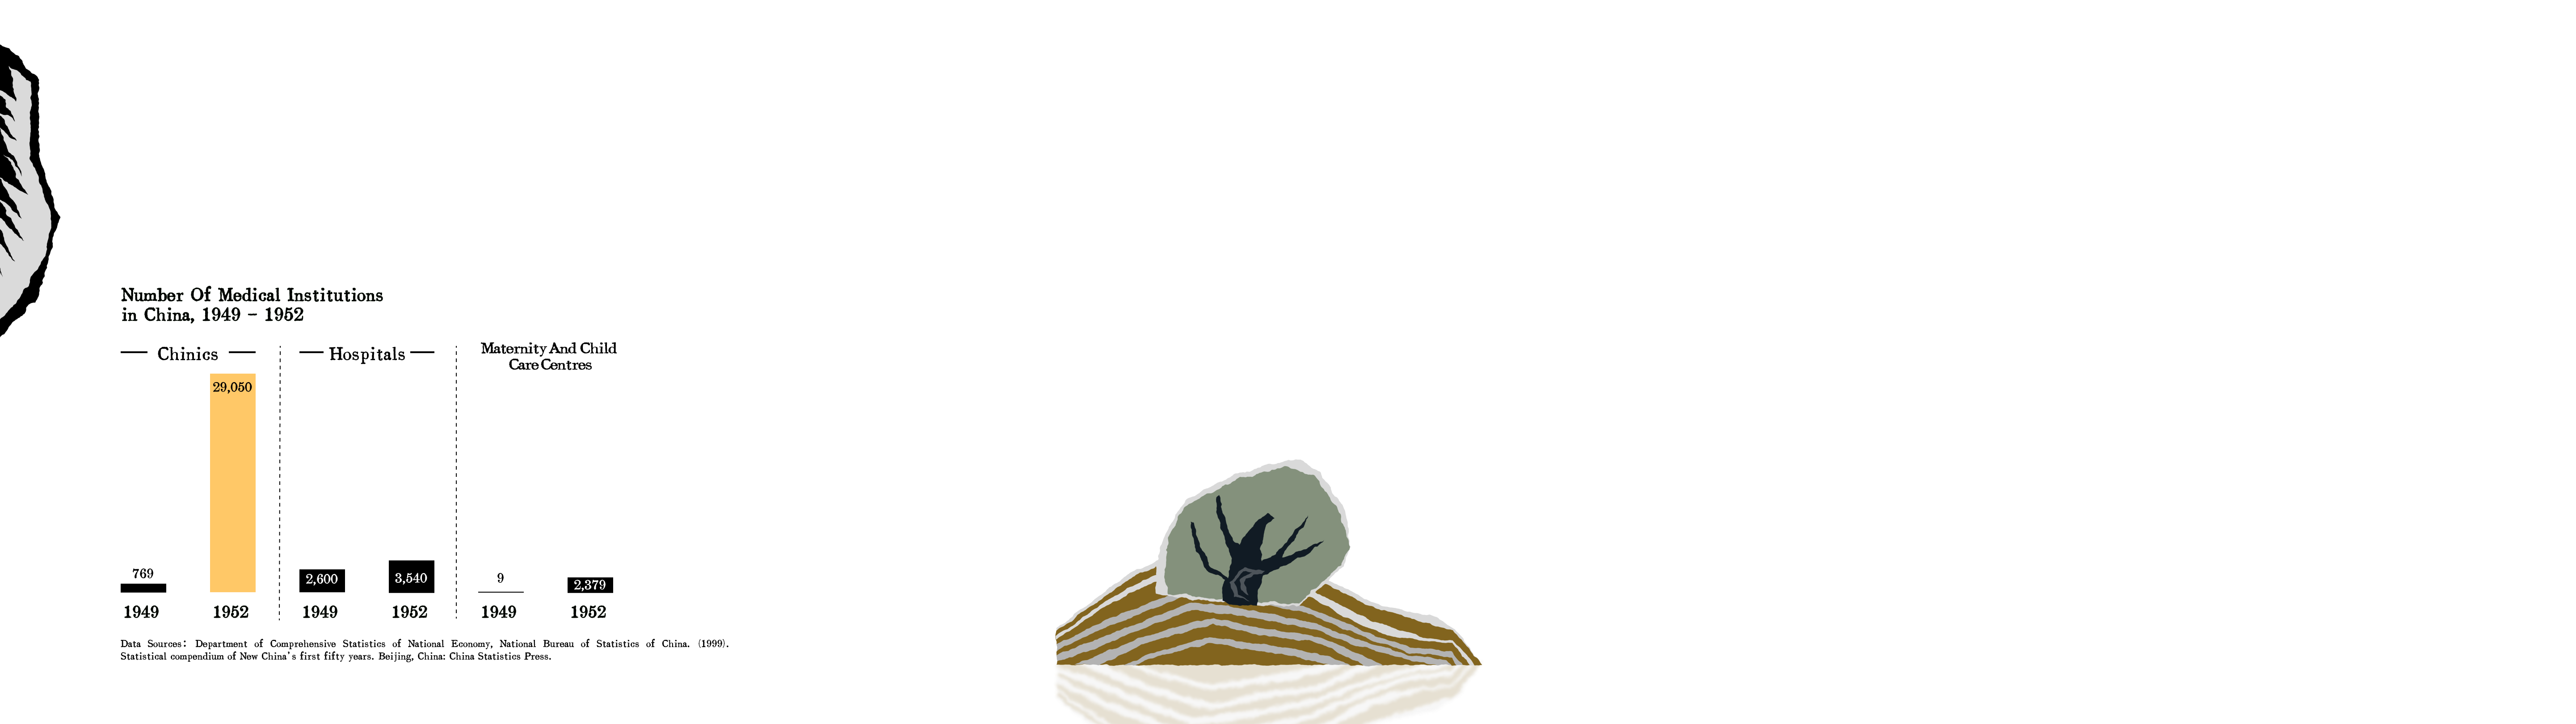
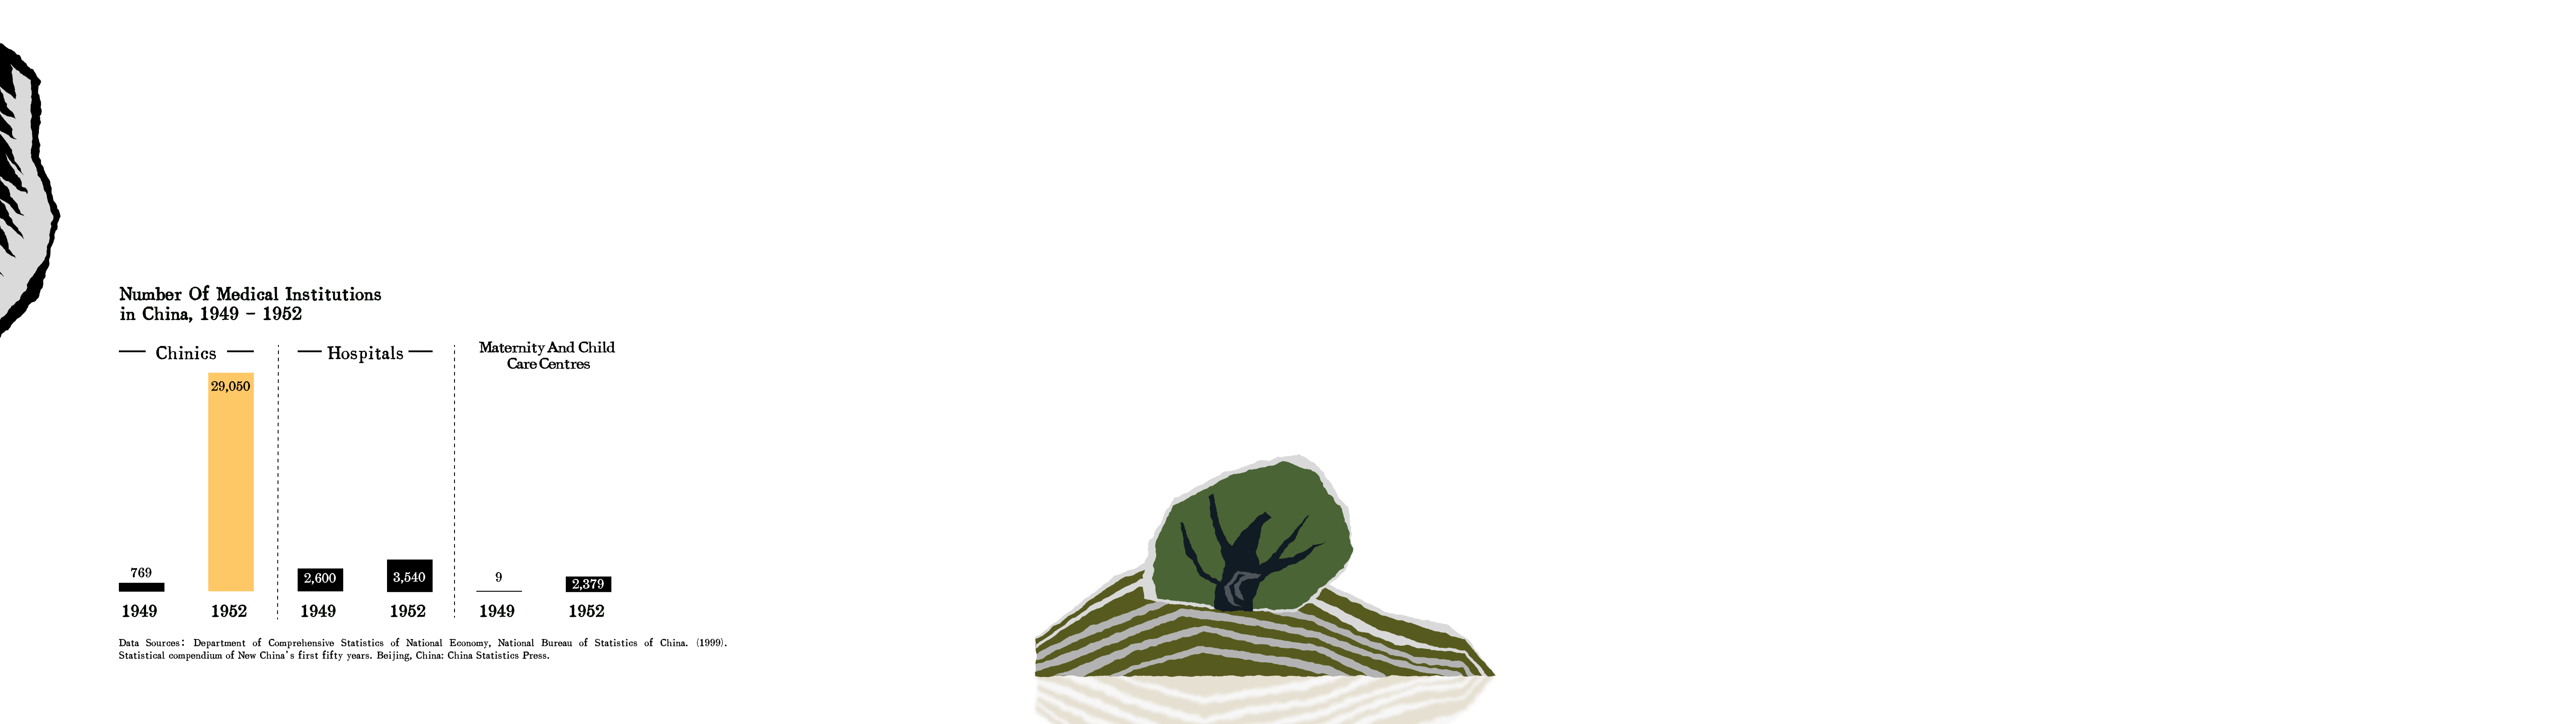
feat: section2增加下雨

diff --git a/src/components/RainCanvas.tsx b/src/components/RainCanvas.tsx
@@ -1,0 +1,233 @@
+import React, { useEffect, useRef } from 'react';
+
+interface RainCanvasProps {
+  active: boolean;
+  className?: string;
+  style?: React.CSSProperties;
+}
+
+type Drop = {
+  x: number;
+  y: number;
+  length: number;
+  speedX: number;
+  speedY: number;
+  opacity: number;
+  lineWidth: number;
+};
+
+const MIN_DROPS = 120;
+const MAX_DROPS = 520;
+
+const RainCanvas: React.FC<RainCanvasProps> = ({ active, className, style }) => {
+  const containerRef = useRef<HTMLDivElement | null>(null);
+  const canvasRef = useRef<HTMLCanvasElement | null>(null);
+  const animationFrameRef = useRef<number | null>(null);
+  const dropsRef = useRef<Drop[]>([]);
+  const ctxRef = useRef<CanvasRenderingContext2D | null>(null);
+  const sizeRef = useRef<{ width: number; height: number }>({ width: 0, height: 0 });
+  const isActiveRef = useRef(false);
+  const isStoppingRef = useRef(false);
+
+  useEffect(() => {
+    const container = containerRef.current;
+    const canvas = canvasRef.current;
+    if (!container || !canvas) return;
+
+    const handleResize = () => {
+      const rect = container.getBoundingClientRect();
+      const width = rect.width;
+      const height = rect.height;
+      if (!width || !height) return;
+
+      sizeRef.current = { width, height };
+
+      const dpr = window.devicePixelRatio || 1;
+      canvas.width = width * dpr;
+      canvas.height = height * dpr;
+
+      const ctx = canvas.getContext('2d');
+      if (!ctx) return;
+      ctx.setTransform(dpr, 0, 0, dpr, 0, 0);
+      ctxRef.current = ctx;
+
+      // 提升整体密度：按宽度估算数量
+      const areaFactor = 0.45;
+      const estimated = Math.round(width * areaFactor);
+      const count = Math.max(MIN_DROPS, Math.min(MAX_DROPS, estimated));
+
+      const drops: Drop[] = [];
+      for (let i = 0; i < count; i += 1) {
+        // 垂直速度越快，雨滴越长、越亮（类似 geoffb 的深度感）
+        const baseSpeedY = 420 + Math.random() * 880;
+        const speedY = baseSpeedY * 1.5; // 1.5 倍整体加速
+        const baseLength = 22 + (speedY / 1000) * 55; // 更长的雨滴
+        const speedX = -speedY * 0.16; // 略微加大斜向
+        drops.push({
+          x: Math.random() * width,
+          y: Math.random() * height,
+          length: baseLength,
+          speedX,
+          speedY,
+          opacity: 0.22 + (speedY / 1000) * 0.45,
+          // 全局再加粗一档
+          lineWidth: 2.2 + (speedY / 1000) * 1.8,
+        });
+      }
+      dropsRef.current = drops;
+    };
+
+    handleResize();
+
+    let resizeObserver: ResizeObserver | null = null;
+    if ('ResizeObserver' in window) {
+      resizeObserver = new ResizeObserver(() => {
+        handleResize();
+      });
+      resizeObserver.observe(container);
+    } else {
+      window.addEventListener('resize', handleResize);
+    }
+
+    return () => {
+      if (resizeObserver) {
+        resizeObserver.disconnect();
+      } else {
+        window.removeEventListener('resize', handleResize);
+      }
+    };
+  }, []);
+
+  useEffect(() => {
+    // 更新当前可见状态与“正在收尾”的标记
+    isActiveRef.current = active;
+    if (!active && dropsRef.current.length > 0) {
+      isStoppingRef.current = true;
+    }
+    if (active) {
+      isStoppingRef.current = false;
+      // 刚开始下雨时，把所有雨滴放到画布上方，营造“从天上开始下”的感觉
+      const { height } = sizeRef.current;
+      if (height > 0) {
+        const drops = dropsRef.current;
+        for (let i = 0; i < drops.length; i += 1) {
+          drops[i].y = -Math.random() * height;
+        }
+      }
+    }
+
+    const ctx = ctxRef.current;
+    if (!ctx) return;
+
+    // 如果当前已经有动画在跑，只需要更新 active/stopping 状态即可
+    if (animationFrameRef.current != null) {
+      // 如果既不 active 也不在收尾，并且没有雨滴，则可以在后续帧中自动清理
+      return;
+    }
+
+    let lastTime = performance.now();
+
+    const loop = (time: number) => {
+      const frameId = requestAnimationFrame(loop);
+      animationFrameRef.current = frameId;
+
+      const { width, height } = sizeRef.current;
+      if (!width || !height) return;
+
+      const dt = Math.min((time - lastTime) / 1000, 0.05);
+      lastTime = time;
+
+      ctx.clearRect(0, 0, width, height);
+
+      const drops = dropsRef.current;
+      const fallExtra = 40;
+      let anyVisible = false;
+
+      for (let i = 0; i < drops.length; i += 1) {
+        const drop = drops[i];
+        drop.x += drop.speedX * dt;
+        drop.y += drop.speedY * dt;
+
+        const outOfBounds =
+          drop.y - drop.length > height + fallExtra ||
+          drop.x < -fallExtra ||
+          drop.x > width + fallExtra;
+
+        if (outOfBounds) {
+          if (isActiveRef.current) {
+            // 正在下雨：离开视口则重生到上方，形成持续雨幕
+            const baseSpeedY = 420 + Math.random() * 880;
+            const speedY = baseSpeedY * 1.5;
+            const baseLength = 22 + (speedY / 1000) * 55;
+            const speedX = -speedY * 0.16;
+            drop.y = -Math.random() * height;
+            drop.x = Math.random() * width;
+            drop.length = baseLength;
+            drop.speedX = speedX;
+            drop.speedY = speedY;
+            drop.opacity = 0.22 + (speedY / 1000) * 0.45;
+            drop.lineWidth = 2.2 + (speedY / 1000) * 1.8;
+          } else if (isStoppingRef.current) {
+            // 正在收尾：雨滴离开后不再重生
+            continue;
+          } else {
+            continue;
+          }
+        }
+
+        // 判断当前雨滴是否仍在可见范围内
+        if (
+          drop.y + drop.length >= -fallExtra &&
+          drop.y - drop.length <= height + fallExtra &&
+          drop.x >= -fallExtra &&
+          drop.x <= width + fallExtra
+        ) {
+          anyVisible = true;
+        }
+
+        // 参考 demo 使用偏冷的雨色，整体偏暗一点
+        ctx.strokeStyle = `rgba(174, 194, 224, ${drop.opacity})`;
+        ctx.lineWidth = drop.lineWidth;
+        ctx.beginPath();
+        ctx.moveTo(drop.x, drop.y);
+        ctx.lineTo(drop.x - drop.length * 0.3, drop.y + drop.length);
+        ctx.stroke();
+      }
+
+      // 如果不再 active 且处于收尾阶段，且已经没有可见雨滴，则彻底停止动画并清空
+      if (!isActiveRef.current && isStoppingRef.current && !anyVisible) {
+        isStoppingRef.current = false;
+        if (animationFrameRef.current != null) {
+          cancelAnimationFrame(animationFrameRef.current);
+          animationFrameRef.current = null;
+        }
+        ctx.clearRect(0, 0, width, height);
+      }
+    };
+
+    animationFrameRef.current = requestAnimationFrame(loop);
+
+    return () => {
+      if (animationFrameRef.current != null) {
+        cancelAnimationFrame(animationFrameRef.current);
+        animationFrameRef.current = null;
+      }
+    };
+  }, [active]);
+
+  return (
+    <div
+      ref={containerRef}
+      className={className}
+      style={style}
+    >
+      <canvas
+        ref={canvasRef}
+        style={{ width: '100%', height: '100%' }}
+      />
+    </div>
+  );
+};
+
+export default RainCanvas;
+

diff --git a/src/sections/Section2.tsx b/src/sections/Section2.tsx
@@ -1,10 +1,12 @@
+import { useEffect, useRef, useState } from 'react';
 import backgroundImage from '../assets/section2/background.png';
 import frontendImage from '../assets/section2/frontend.png';
 import { getSectionZLayers } from '../constants/zIndex';
-
-const Z = getSectionZLayers();
 import SectionText from '../components/SectionText';
 import type { SectionTextProps } from '../components/SectionText';
+import RainCanvas from '../components/RainCanvas';
+
+const Z = getSectionZLayers();
 
 const SECTION2_WIDTH = '200vw';
 
@@ -23,9 +25,42 @@ const SECTION2_TEXTS: SectionTextProps[] = [
   },
 ];
 
+function useSectionInView(threshold = 0.3) {
+  const ref = useRef<HTMLDivElement | null>(null);
+  const [inView, setInView] = useState(false);
+
+  useEffect(() => {
+    const target = ref.current;
+    if (!target) return;
+
+    const observer = new IntersectionObserver(
+      (entries) => {
+        entries.forEach((entry) => {
+          setInView(entry.isIntersecting && entry.intersectionRatio >= threshold);
+        });
+      },
+      {
+        root: null,
+        threshold,
+      },
+    );
+
+    observer.observe(target);
+
+    return () => {
+      observer.disconnect();
+    };
+  }, [threshold]);
+
+  return { ref, inView };
+}
+
 export default function Section2() {
+  const { ref, inView } = useSectionInView(0.4);
+
   return (
     <div
+      ref={ref}
       className="relative shrink-0 h-full"
       style={{ width: SECTION2_WIDTH, maxWidth: SECTION2_WIDTH }}
     >
@@ -46,6 +81,13 @@ export default function Section2() {
               width: '100%',
               height: 'auto',
               zIndex: Z.BACKGROUND,
+            }}
+          />
+          <RainCanvas
+            active={inView}
+            className="absolute inset-0 pointer-events-none"
+            style={{
+              zIndex: Z.BACKGROUND + 1,
             }}
           />
           <img